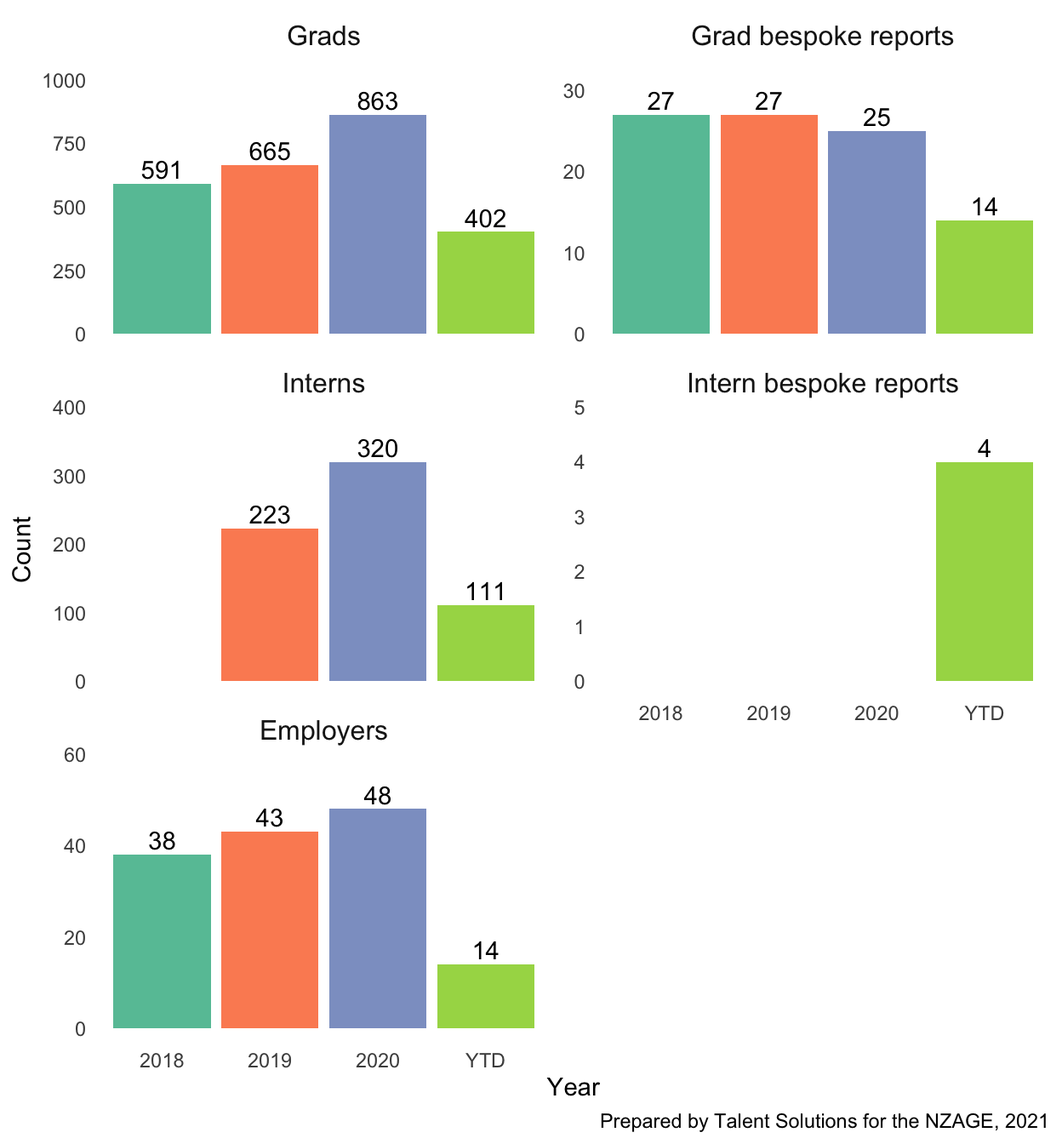
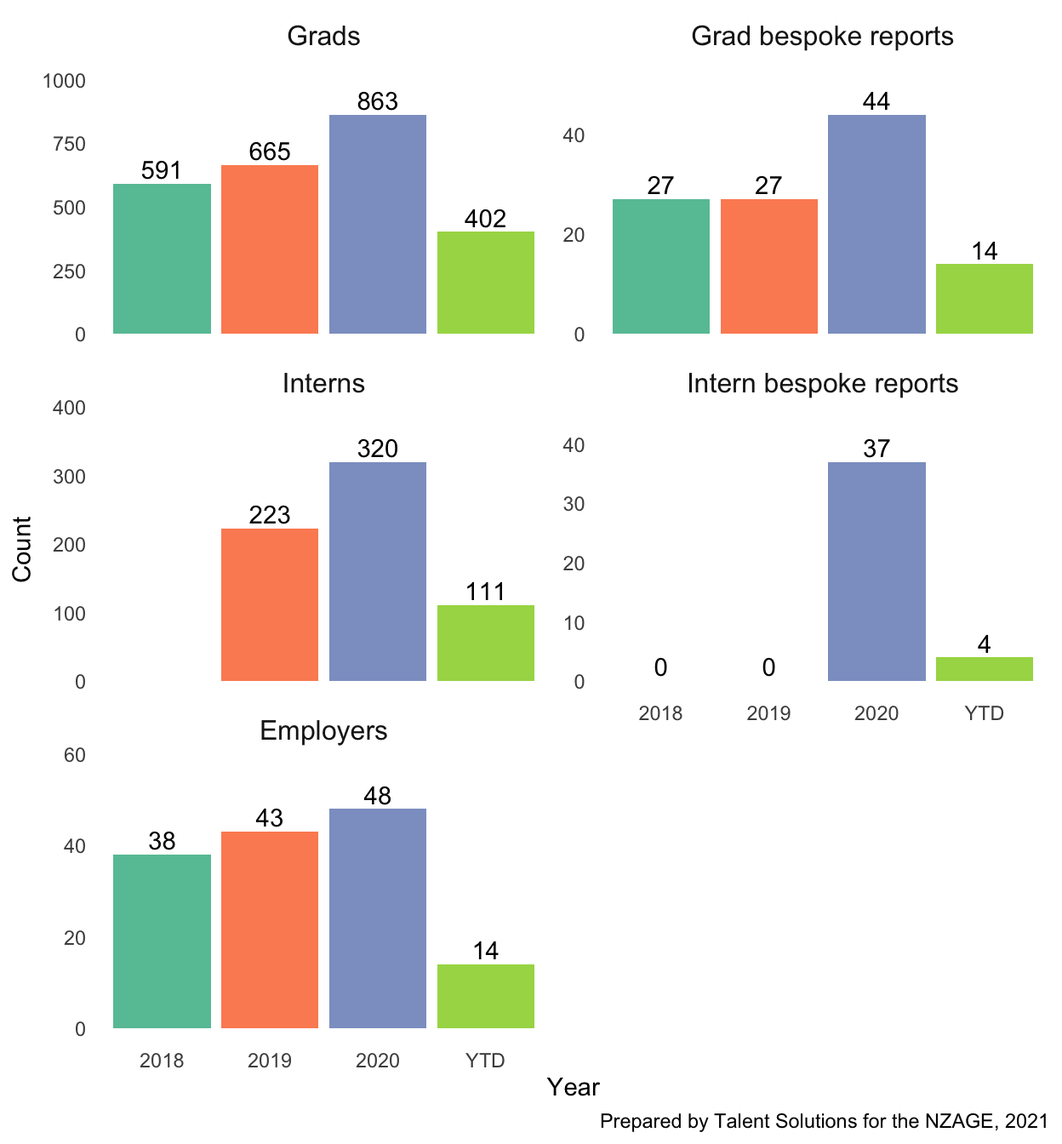
Autoupdate

diff --git a/docs/index.html b/docs/index.html
@@ -2456,7 +2456,7 @@ code span.wa { color: #5e5e5e; font-style: italic; } /* Warning */
 <div class="layout-chunk" data-layout="l-body">
 
 </div>
-<p><em>Last updated 2021-08-11 07:01.</em></p>
+<p><em>Last updated 2021-08-11 09:09.</em></p>
 <h2 id="progress-to-date">Progress to date</h2>
 <p>The below charts track <strong>complete</strong> graduate, intern and employer surveys, as well as how many bespoke reports have been earned. The surveys close on September 10.</p>
 <h4 id="note-on-bespoke-reports">Note on bespoke reports</h4>
@@ -2468,16 +2468,16 @@ code span.wa { color: #5e5e5e; font-style: italic; } /* Warning */
 <h3 id="cumulative-complete-responses-over-time-for-2021-surveys">Cumulative complete responses over time for 2021 surveys</h3>
 <p>The solid lines below represent the current cumulative responses to all three surveys. The dotted lines and final diamond points indicate the path to equalling last year’s final numbers by the set survey closing date.</p>
 <div class="layout-chunk" data-layout="l-body">
-<div id="htmlwidget-7b379263188b26e4e3ac" style="width:624px;height:480px;" class="plotly html-widget"></div>
-<script type="application/json" data-for="htmlwidget-7b379263188b26e4e3ac">{"x":{"data":[{"x":[18814,18815,18817,18820,18822,18823,18824,18828,18831,18844],"y":[1,3,4,6,7,9,10,11,13,14],"text":["Date: 2021-07-06<br />Cumulative count:   1","Date: 2021-07-07<br />Cumulative count:   3","Date: 2021-07-09<br />Cumulative count:   4","Date: 2021-07-12<br />Cumulative count:   6","Date: 2021-07-14<br />Cumulative count:   7","Date: 2021-07-15<br />Cumulative count:   9","Date: 2021-07-16<br />Cumulative count:  10","Date: 2021-07-20<br />Cumulative count:  11","Date: 2021-07-23<br />Cumulative count:  13","Date: 2021-08-05<br />Cumulative count:  14"],"type":"scatter","mode":"lines","line":{"width":5.66929133858268,"color":"rgba(85,13,128,1)","dash":"solid"},"hoveron":"points","name":"Employers","legendgroup":"Employers","showlegend":true,"xaxis":"x","yaxis":"y","hoverinfo":"text","frame":null},{"x":[18814,18815,18816,18817,18818,18819,18820,18821,18822,18823,18824,18826,18827,18828,18829,18830,18831,18833,18834,18835,18836,18837,18838,18840,18841,18842,18843,18844,18845,18847,18848,18849],"y":[38,97,117,130,131,147,169,177,182,200,201,213,220,223,235,241,247,252,255,256,295,307,309,338,370,378,385,386,395,398,401,402],"text":["Date: 2021-07-06<br />Cumulative count:  38","Date: 2021-07-07<br />Cumulative count:  97","Date: 2021-07-08<br />Cumulative count: 117","Date: 2021-07-09<br />Cumulative count: 130","Date: 2021-07-10<br />Cumulative count: 131","Date: 2021-07-11<br />Cumulative count: 147","Date: 2021-07-12<br />Cumulative count: 169","Date: 2021-07-13<br />Cumulative count: 177","Date: 2021-07-14<br />Cumulative count: 182","Date: 2021-07-15<br />Cumulative count: 200","Date: 2021-07-16<br />Cumulative count: 201","Date: 2021-07-18<br />Cumulative count: 213","Date: 2021-07-19<br />Cumulative count: 220","Date: 2021-07-20<br />Cumulative count: 223","Date: 2021-07-21<br />Cumulative count: 235","Date: 2021-07-22<br />Cumulative count: 241","Date: 2021-07-23<br />Cumulative count: 247","Date: 2021-07-25<br />Cumulative count: 252","Date: 2021-07-26<br />Cumulative count: 255","Date: 2021-07-27<br />Cumulative count: 256","Date: 2021-07-28<br />Cumulative count: 295","Date: 2021-07-29<br />Cumulative count: 307","Date: 2021-07-30<br />Cumulative count: 309","Date: 2021-08-01<br />Cumulative count: 338","Date: 2021-08-02<br />Cumulative count: 370","Date: 2021-08-03<br />Cumulative count: 378","Date: 2021-08-04<br />Cumulative count: 385","Date: 2021-08-05<br />Cumulative count: 386","Date: 2021-08-06<br />Cumulative count: 395","Date: 2021-08-08<br />Cumulative count: 398","Date: 2021-08-09<br />Cumulative count: 401","Date: 2021-08-10<br />Cumulative count: 402"],"type":"scatter","mode":"lines","line":{"width":5.66929133858268,"color":"rgba(237,168,47,1)","dash":"solid"},"hoveron":"points","name":"Grads","legendgroup":"Grads","showlegend":true,"xaxis":"x","yaxis":"y","hoverinfo":"text","frame":null},{"x":[18814,18815,18816,18817,18818,18819,18820,18821,18822,18823,18824,18825,18826,18827,18829,18830,18831,18837,18838,18840,18841,18842,18844,18845,18846,18847,18848,18849],"y":[9,30,37,39,41,46,55,58,60,64,66,68,70,73,76,81,82,84,87,89,96,98,99,103,104,107,110,111],"text":["Date: 2021-07-06<br />Cumulative count:   9","Date: 2021-07-07<br />Cumulative count:  30","Date: 2021-07-08<br />Cumulative count:  37","Date: 2021-07-09<br />Cumulative count:  39","Date: 2021-07-10<br />Cumulative count:  41","Date: 2021-07-11<br />Cumulative count:  46","Date: 2021-07-12<br />Cumulative count:  55","Date: 2021-07-13<br />Cumulative count:  58","Date: 2021-07-14<br />Cumulative count:  60","Date: 2021-07-15<br />Cumulative count:  64","Date: 2021-07-16<br />Cumulative count:  66","Date: 2021-07-17<br />Cumulative count:  68","Date: 2021-07-18<br />Cumulative count:  70","Date: 2021-07-19<br />Cumulative count:  73","Date: 2021-07-21<br />Cumulative count:  76","Date: 2021-07-22<br />Cumulative count:  81","Date: 2021-07-23<br />Cumulative count:  82","Date: 2021-07-29<br />Cumulative count:  84","Date: 2021-07-30<br />Cumulative count:  87","Date: 2021-08-01<br />Cumulative count:  89","Date: 2021-08-02<br />Cumulative count:  96","Date: 2021-08-03<br />Cumulative count:  98","Date: 2021-08-05<br />Cumulative count:  99","Date: 2021-08-06<br />Cumulative count: 103","Date: 2021-08-07<br />Cumulative count: 104","Date: 2021-08-08<br />Cumulative count: 107","Date: 2021-08-09<br />Cumulative count: 110","Date: 2021-08-10<br />Cumulative count: 111"],"type":"scatter","mode":"lines","line":{"width":5.66929133858268,"color":"rgba(41,158,115,1)","dash":"solid"},"hoveron":"points","name":"Interns","legendgroup":"Interns","showlegend":true,"xaxis":"x","yaxis":"y","hoverinfo":"text","frame":null},{"x":["2021-09-10","2021-09-10","2021-09-10","2021-09-10","2021-09-10","2021-09-10","2021-09-10","2021-09-10","2021-09-10","2021-09-10","2021-09-10","2021-09-10","2021-09-10","2021-09-10","2021-09-10","2021-09-10","2021-09-10","2021-09-10","2021-09-10","2021-09-10","2021-09-10","2021-09-10","2021-09-10","2021-09-10","2021-09-10","2021-09-10","2021-09-10","2021-09-10","2021-09-10","2021-09-10","2021-09-10","2021-09-10","2021-09-10","2021-09-10","2021-09-10","2021-09-10","2021-09-10","2021-09-10","2021-09-10","2021-09-10","2021-09-10","2021-09-10","2021-09-10","2021-09-10","2021-09-10","2021-09-10","2021-09-10","2021-09-10","2021-09-10","2021-09-10","2021-09-10","2021-09-10","2021-09-10","2021-09-10","2021-09-10","2021-09-10","2021-09-10","2021-09-10","2021-09-10","2021-09-10","2021-09-10","2021-09-10","2021-09-10","2021-09-10","2021-09-10","2021-09-10","2021-09-10","2021-09-10","2021-09-10","2021-09-10","2021-09-10","2021-09-10","2021-09-10","2021-09-10","2021-09-10","2021-09-10","2021-09-10","2021-09-10","2021-09-10","2021-09-10","2021-09-10","2021-09-10","2021-09-10","2021-09-10","2021-09-10","2021-09-10","2021-09-10","2021-09-10","2021-09-10","2021-09-10","2021-09-10","2021-09-10","2021-09-10","2021-09-10","2021-09-10","2021-09-10","2021-09-10","2021-09-10","2021-09-10","2021-09-10","2021-09-10","2021-09-10","2021-09-10","2021-09-10","2021-09-10","2021-09-10","2021-09-10","2021-09-10","2021-09-10","2021-09-10","2021-09-10","2021-09-10","2021-09-10","2021-09-10","2021-09-10","2021-09-10","2021-09-10","2021-09-10","2021-09-10","2021-09-10","2021-09-10","2021-09-10","2021-09-10","2021-09-10","2021-09-10","2021-09-10","2021-09-10","2021-09-10","2021-09-10","2021-09-10","2021-09-10","2021-09-10","2021-09-10","2021-09-10","2021-09-10","2021-09-10","2021-09-10","2021-09-10","2021-09-10","2021-09-10"],"y":[-42.1,-42.1,-42.1,-42.1,-42.1,-42.1,-42.1,-42.1,-42.1,-42.1,-42.1,-42.1,-42.1,-42.1,-42.1,-42.1,-42.1,-42.1,-42.1,-42.1,-42.1,-42.1,-42.1,-42.1,-42.1,-42.1,-42.1,-42.1,-42.1,-42.1,-42.1,-42.1,-42.1,-42.1,-42.1,-42.1,-42.1,-42.1,-42.1,-42.1,-42.1,-42.1,-42.1,-42.1,-42.1,-42.1,-42.1,-42.1,-42.1,-42.1,-42.1,-42.1,-42.1,-42.1,-42.1,-42.1,-42.1,-42.1,-42.1,-42.1,-42.1,-42.1,-42.1,-42.1,-42.1,-42.1,-42.1,-42.1,-42.1,-42.1,906.1,906.1,906.1,906.1,906.1,906.1,906.1,906.1,906.1,906.1,906.1,906.1,906.1,906.1,906.1,906.1,906.1,906.1,906.1,906.1,906.1,906.1,906.1,906.1,906.1,906.1,906.1,906.1,906.1,906.1,906.1,906.1,906.1,906.1,906.1,906.1,906.1,906.1,906.1,906.1,906.1,906.1,906.1,906.1,906.1,906.1,906.1,906.1,906.1,906.1,906.1,906.1,906.1,906.1,906.1,906.1,906.1,906.1,906.1,906.1,906.1,906.1,906.1,906.1,906.1,906.1,906.1,906.1,906.1,906.1],"text":"","type":"scatter","mode":"lines","line":{"width":1.88976377952756,"color":"rgba(0,0,0,1)","dash":"dash"},"hoveron":"points","showlegend":false,"xaxis":"x","yaxis":"y","hoverinfo":"text","frame":null},{"x":[18880],"y":[48],"text":"Date: 2021-09-10<br />Cumulative count:  48","type":"scatter","mode":"markers","marker":{"autocolorscale":false,"color":"rgba(85,13,128,1)","opacity":1,"size":5.66929133858268,"symbol":"diamond","line":{"width":1.88976377952756,"color":"rgba(85,13,128,1)"}},"hoveron":"points","name":"Employers","legendgroup":"Employers","showlegend":false,"xaxis":"x","yaxis":"y","hoverinfo":"text","frame":null},{"x":[18880],"y":[863],"text":"Date: 2021-09-10<br />Cumulative count: 863","type":"scatter","mode":"markers","marker":{"autocolorscale":false,"color":"rgba(237,168,47,1)","opacity":1,"size":5.66929133858268,"symbol":"diamond","line":{"width":1.88976377952756,"color":"rgba(237,168,47,1)"}},"hoveron":"points","name":"Grads","legendgroup":"Grads","showlegend":false,"xaxis":"x","yaxis":"y","hoverinfo":"text","frame":null},{"x":[18880],"y":[320],"text":"Date: 2021-09-10<br />Cumulative count: 320","type":"scatter","mode":"markers","marker":{"autocolorscale":false,"color":"rgba(41,158,115,1)","opacity":1,"size":5.66929133858268,"symbol":"diamond","line":{"width":1.88976377952756,"color":"rgba(41,158,115,1)"}},"hoveron":"points","name":"Interns","legendgroup":"Interns","showlegend":false,"xaxis":"x","yaxis":"y","hoverinfo":"text","frame":null},{"x":[18844,18880],"y":[14,48],"text":"Date: 2021-08-05<br />Cumulative count:  14<br />Date: 2021-08-05<br />Cumulative count:  14","type":"scatter","mode":"lines","line":{"width":1.88976377952756,"color":"rgba(85,13,128,1)","dash":"dot"},"hoveron":"points","name":"Employers","legendgroup":"Employers","showlegend":false,"xaxis":"x","yaxis":"y","hoverinfo":"text","frame":null},{"x":[18849,18880],"y":[402,863],"text":"Date: 2021-08-10<br />Cumulative count: 402<br />Date: 2021-08-10<br />Cumulative count: 402","type":"scatter","mode":"lines","line":{"width":1.88976377952756,"color":"rgba(237,168,47,1)","dash":"dot"},"hoveron":"points","name":"Grads","legendgroup":"Grads","showlegend":false,"xaxis":"x","yaxis":"y","hoverinfo":"text","frame":null},{"x":[18849,18880],"y":[111,320],"text":"Date: 2021-08-10<br />Cumulative count: 111<br />Date: 2021-08-10<br />Cumulative count: 111","type":"scatter","mode":"lines","line":{"width":1.88976377952756,"color":"rgba(41,158,115,1)","dash":"dot"},"hoveron":"points","name":"Interns","legendgroup":"Interns","showlegend":false,"xaxis":"x","yaxis":"y","hoverinfo":"text","frame":null}],"layout":{"margin":{"t":25.4977168949772,"r":7.30593607305936,"b":39.4520547945206,"l":43.1050228310502},"font":{"color":"rgba(0,0,0,1)","family":"","size":14.6118721461187},"xaxis":{"domain":[0,1],"automargin":true,"type":"linear","autorange":false,"range":[18810.7,18883.3],"tickmode":"array","ticktext":["Jul 15","Aug 01","Aug 15","Sep 01"],"tickvals":[18823,18840,18854,18871],"categoryorder":"array","categoryarray":["Jul 15","Aug 01","Aug 15","Sep 01"],"nticks":null,"ticks":"","tickcolor":null,"ticklen":3.65296803652968,"tickwidth":0,"showticklabels":true,"tickfont":{"color":"rgba(77,77,77,1)","family":"","size":11.689497716895},"tickangle":-0,"showline":false,"linecolor":null,"linewidth":0,"showgrid":true,"gridcolor":"rgba(235,235,235,1)","gridwidth":0.66417600664176,"zeroline":false,"anchor":"y","title":{"text":"Date","font":{"color":"rgba(0,0,0,1)","family":"","size":14.6118721461187}},"hoverformat":".2f"},"yaxis":{"domain":[0,1],"automargin":true,"type":"linear","autorange":false,"range":[-42.1,906.1],"tickmode":"array","ticktext":["0","250","500","750"],"tickvals":[0,250,500,750],"categoryorder":"array","categoryarray":["0","250","500","750"],"nticks":null,"ticks":"","tickcolor":null,"ticklen":3.65296803652968,"tickwidth":0,"showticklabels":true,"tickfont":{"color":"rgba(77,77,77,1)","family":"","size":11.689497716895},"tickangle":-0,"showline":false,"linecolor":null,"linewidth":0,"showgrid":true,"gridcolor":"rgba(235,235,235,1)","gridwidth":0.66417600664176,"zeroline":false,"anchor":"x","title":{"text":"Cumulative count","font":{"color":"rgba(0,0,0,1)","family":"","size":14.6118721461187}},"hoverformat":".2f"},"shapes":[{"type":"rect","fillcolor":null,"line":{"color":null,"width":0,"linetype":[]},"yref":"paper","xref":"paper","x0":0,"x1":1,"y0":0,"y1":1}],"showlegend":true,"legend":{"bgcolor":null,"bordercolor":null,"borderwidth":0,"font":{"color":"rgba(0,0,0,1)","family":"","size":11.689497716895},"y":0.913385826771654,"orientation":"h"},"hovermode":"closest","barmode":"relative"},"config":{"doubleClick":"reset","showSendToCloud":false},"source":"A","attrs":{"b72f3dac3012":{"x":{},"y":{},"colour":{},"type":"scatter"},"b72f73880d5f":{"x":{},"y":{},"colour":{}},"b72f6926133a":{"xintercept":{}},"b72f42b87ac4":{"x":{},"y":{},"x.1":{},"y.1":{},"colour":{}},"b72f5d83fc14":{"x":{},"y":{},"xend":{},"yend":{},"x.1":{},"y.1":{},"colour":{}}},"cur_data":"b72f3dac3012","visdat":{"b72f3dac3012":["function (y) ","x"],"b72f73880d5f":["function (y) ","x"],"b72f6926133a":["function (y) ","x"],"b72f42b87ac4":["function (y) ","x"],"b72f5d83fc14":["function (y) ","x"]},"highlight":{"on":"plotly_click","persistent":false,"dynamic":false,"selectize":false,"opacityDim":0.2,"selected":{"opacity":1},"debounce":0},"shinyEvents":["plotly_hover","plotly_click","plotly_selected","plotly_relayout","plotly_brushed","plotly_brushing","plotly_clickannotation","plotly_doubleclick","plotly_deselect","plotly_afterplot","plotly_sunburstclick"],"base_url":"https://plot.ly"},"evals":[],"jsHooks":[]}</script>
+<div id="htmlwidget-d3a55604a93266758895" style="width:624px;height:480px;" class="plotly html-widget"></div>
+<script type="application/json" data-for="htmlwidget-d3a55604a93266758895">{"x":{"data":[{"x":[18814,18815,18817,18820,18822,18823,18824,18828,18831,18844,18849],"y":[1,3,4,6,7,9,10,11,13,14,14],"text":["Date: 2021-07-06<br />Cumulative count:   1","Date: 2021-07-07<br />Cumulative count:   3","Date: 2021-07-09<br />Cumulative count:   4","Date: 2021-07-12<br />Cumulative count:   6","Date: 2021-07-14<br />Cumulative count:   7","Date: 2021-07-15<br />Cumulative count:   9","Date: 2021-07-16<br />Cumulative count:  10","Date: 2021-07-20<br />Cumulative count:  11","Date: 2021-07-23<br />Cumulative count:  13","Date: 2021-08-05<br />Cumulative count:  14","Date: 2021-08-10<br />Cumulative count:  14"],"type":"scatter","mode":"lines","line":{"width":5.66929133858268,"color":"rgba(85,13,128,1)","dash":"solid"},"hoveron":"points","name":"Employers","legendgroup":"Employers","showlegend":true,"xaxis":"x","yaxis":"y","hoverinfo":"text","frame":null},{"x":[18814,18815,18816,18817,18818,18819,18820,18821,18822,18823,18824,18826,18827,18828,18829,18830,18831,18833,18834,18835,18836,18837,18838,18840,18841,18842,18843,18844,18845,18847,18848,18849,18849],"y":[38,97,117,130,131,147,169,177,182,200,201,213,220,223,235,241,247,252,255,256,295,307,309,338,370,378,385,386,395,398,401,402,402],"text":["Date: 2021-07-06<br />Cumulative count:  38","Date: 2021-07-07<br />Cumulative count:  97","Date: 2021-07-08<br />Cumulative count: 117","Date: 2021-07-09<br />Cumulative count: 130","Date: 2021-07-10<br />Cumulative count: 131","Date: 2021-07-11<br />Cumulative count: 147","Date: 2021-07-12<br />Cumulative count: 169","Date: 2021-07-13<br />Cumulative count: 177","Date: 2021-07-14<br />Cumulative count: 182","Date: 2021-07-15<br />Cumulative count: 200","Date: 2021-07-16<br />Cumulative count: 201","Date: 2021-07-18<br />Cumulative count: 213","Date: 2021-07-19<br />Cumulative count: 220","Date: 2021-07-20<br />Cumulative count: 223","Date: 2021-07-21<br />Cumulative count: 235","Date: 2021-07-22<br />Cumulative count: 241","Date: 2021-07-23<br />Cumulative count: 247","Date: 2021-07-25<br />Cumulative count: 252","Date: 2021-07-26<br />Cumulative count: 255","Date: 2021-07-27<br />Cumulative count: 256","Date: 2021-07-28<br />Cumulative count: 295","Date: 2021-07-29<br />Cumulative count: 307","Date: 2021-07-30<br />Cumulative count: 309","Date: 2021-08-01<br />Cumulative count: 338","Date: 2021-08-02<br />Cumulative count: 370","Date: 2021-08-03<br />Cumulative count: 378","Date: 2021-08-04<br />Cumulative count: 385","Date: 2021-08-05<br />Cumulative count: 386","Date: 2021-08-06<br />Cumulative count: 395","Date: 2021-08-08<br />Cumulative count: 398","Date: 2021-08-09<br />Cumulative count: 401","Date: 2021-08-10<br />Cumulative count: 402","Date: 2021-08-10<br />Cumulative count: 402"],"type":"scatter","mode":"lines","line":{"width":5.66929133858268,"color":"rgba(237,168,47,1)","dash":"solid"},"hoveron":"points","name":"Grads","legendgroup":"Grads","showlegend":true,"xaxis":"x","yaxis":"y","hoverinfo":"text","frame":null},{"x":[18814,18815,18816,18817,18818,18819,18820,18821,18822,18823,18824,18825,18826,18827,18829,18830,18831,18837,18838,18840,18841,18842,18844,18845,18846,18847,18848,18849,18849],"y":[9,30,37,39,41,46,55,58,60,64,66,68,70,73,76,81,82,84,87,89,96,98,99,103,104,107,110,111,111],"text":["Date: 2021-07-06<br />Cumulative count:   9","Date: 2021-07-07<br />Cumulative count:  30","Date: 2021-07-08<br />Cumulative count:  37","Date: 2021-07-09<br />Cumulative count:  39","Date: 2021-07-10<br />Cumulative count:  41","Date: 2021-07-11<br />Cumulative count:  46","Date: 2021-07-12<br />Cumulative count:  55","Date: 2021-07-13<br />Cumulative count:  58","Date: 2021-07-14<br />Cumulative count:  60","Date: 2021-07-15<br />Cumulative count:  64","Date: 2021-07-16<br />Cumulative count:  66","Date: 2021-07-17<br />Cumulative count:  68","Date: 2021-07-18<br />Cumulative count:  70","Date: 2021-07-19<br />Cumulative count:  73","Date: 2021-07-21<br />Cumulative count:  76","Date: 2021-07-22<br />Cumulative count:  81","Date: 2021-07-23<br />Cumulative count:  82","Date: 2021-07-29<br />Cumulative count:  84","Date: 2021-07-30<br />Cumulative count:  87","Date: 2021-08-01<br />Cumulative count:  89","Date: 2021-08-02<br />Cumulative count:  96","Date: 2021-08-03<br />Cumulative count:  98","Date: 2021-08-05<br />Cumulative count:  99","Date: 2021-08-06<br />Cumulative count: 103","Date: 2021-08-07<br />Cumulative count: 104","Date: 2021-08-08<br />Cumulative count: 107","Date: 2021-08-09<br />Cumulative count: 110","Date: 2021-08-10<br />Cumulative count: 111","Date: 2021-08-10<br />Cumulative count: 111"],"type":"scatter","mode":"lines","line":{"width":5.66929133858268,"color":"rgba(41,158,115,1)","dash":"solid"},"hoveron":"points","name":"Interns","legendgroup":"Interns","showlegend":true,"xaxis":"x","yaxis":"y","hoverinfo":"text","frame":null},{"x":["2021-09-10","2021-09-10","2021-09-10","2021-09-10","2021-09-10","2021-09-10","2021-09-10","2021-09-10","2021-09-10","2021-09-10","2021-09-10","2021-09-10","2021-09-10","2021-09-10","2021-09-10","2021-09-10","2021-09-10","2021-09-10","2021-09-10","2021-09-10","2021-09-10","2021-09-10","2021-09-10","2021-09-10","2021-09-10","2021-09-10","2021-09-10","2021-09-10","2021-09-10","2021-09-10","2021-09-10","2021-09-10","2021-09-10","2021-09-10","2021-09-10","2021-09-10","2021-09-10","2021-09-10","2021-09-10","2021-09-10","2021-09-10","2021-09-10","2021-09-10","2021-09-10","2021-09-10","2021-09-10","2021-09-10","2021-09-10","2021-09-10","2021-09-10","2021-09-10","2021-09-10","2021-09-10","2021-09-10","2021-09-10","2021-09-10","2021-09-10","2021-09-10","2021-09-10","2021-09-10","2021-09-10","2021-09-10","2021-09-10","2021-09-10","2021-09-10","2021-09-10","2021-09-10","2021-09-10","2021-09-10","2021-09-10","2021-09-10","2021-09-10","2021-09-10","2021-09-10","2021-09-10","2021-09-10","2021-09-10","2021-09-10","2021-09-10","2021-09-10","2021-09-10","2021-09-10","2021-09-10","2021-09-10","2021-09-10","2021-09-10","2021-09-10","2021-09-10","2021-09-10","2021-09-10","2021-09-10","2021-09-10","2021-09-10","2021-09-10","2021-09-10","2021-09-10","2021-09-10","2021-09-10","2021-09-10","2021-09-10","2021-09-10","2021-09-10","2021-09-10","2021-09-10","2021-09-10","2021-09-10","2021-09-10","2021-09-10","2021-09-10","2021-09-10","2021-09-10","2021-09-10","2021-09-10","2021-09-10","2021-09-10","2021-09-10","2021-09-10","2021-09-10","2021-09-10","2021-09-10","2021-09-10","2021-09-10","2021-09-10","2021-09-10","2021-09-10","2021-09-10","2021-09-10","2021-09-10","2021-09-10","2021-09-10","2021-09-10","2021-09-10","2021-09-10","2021-09-10","2021-09-10","2021-09-10","2021-09-10","2021-09-10","2021-09-10","2021-09-10","2021-09-10","2021-09-10","2021-09-10","2021-09-10","2021-09-10","2021-09-10"],"y":[-42.1,-42.1,-42.1,-42.1,-42.1,-42.1,-42.1,-42.1,-42.1,-42.1,-42.1,-42.1,-42.1,-42.1,-42.1,-42.1,-42.1,-42.1,-42.1,-42.1,-42.1,-42.1,-42.1,-42.1,-42.1,-42.1,-42.1,-42.1,-42.1,-42.1,-42.1,-42.1,-42.1,-42.1,-42.1,-42.1,-42.1,-42.1,-42.1,-42.1,-42.1,-42.1,-42.1,-42.1,-42.1,-42.1,-42.1,-42.1,-42.1,-42.1,-42.1,-42.1,-42.1,-42.1,-42.1,-42.1,-42.1,-42.1,-42.1,-42.1,-42.1,-42.1,-42.1,-42.1,-42.1,-42.1,-42.1,-42.1,-42.1,-42.1,-42.1,-42.1,-42.1,906.1,906.1,906.1,906.1,906.1,906.1,906.1,906.1,906.1,906.1,906.1,906.1,906.1,906.1,906.1,906.1,906.1,906.1,906.1,906.1,906.1,906.1,906.1,906.1,906.1,906.1,906.1,906.1,906.1,906.1,906.1,906.1,906.1,906.1,906.1,906.1,906.1,906.1,906.1,906.1,906.1,906.1,906.1,906.1,906.1,906.1,906.1,906.1,906.1,906.1,906.1,906.1,906.1,906.1,906.1,906.1,906.1,906.1,906.1,906.1,906.1,906.1,906.1,906.1,906.1,906.1,906.1,906.1,906.1,906.1,906.1,906.1,906.1],"text":"","type":"scatter","mode":"lines","line":{"width":1.88976377952756,"color":"rgba(0,0,0,1)","dash":"dash"},"hoveron":"points","showlegend":false,"xaxis":"x","yaxis":"y","hoverinfo":"text","frame":null},{"x":[18880],"y":[48],"text":"Date: 2021-09-10<br />Cumulative count:  48","type":"scatter","mode":"markers","marker":{"autocolorscale":false,"color":"rgba(85,13,128,1)","opacity":1,"size":5.66929133858268,"symbol":"diamond","line":{"width":1.88976377952756,"color":"rgba(85,13,128,1)"}},"hoveron":"points","name":"Employers","legendgroup":"Employers","showlegend":false,"xaxis":"x","yaxis":"y","hoverinfo":"text","frame":null},{"x":[18880],"y":[863],"text":"Date: 2021-09-10<br />Cumulative count: 863","type":"scatter","mode":"markers","marker":{"autocolorscale":false,"color":"rgba(237,168,47,1)","opacity":1,"size":5.66929133858268,"symbol":"diamond","line":{"width":1.88976377952756,"color":"rgba(237,168,47,1)"}},"hoveron":"points","name":"Grads","legendgroup":"Grads","showlegend":false,"xaxis":"x","yaxis":"y","hoverinfo":"text","frame":null},{"x":[18880],"y":[320],"text":"Date: 2021-09-10<br />Cumulative count: 320","type":"scatter","mode":"markers","marker":{"autocolorscale":false,"color":"rgba(41,158,115,1)","opacity":1,"size":5.66929133858268,"symbol":"diamond","line":{"width":1.88976377952756,"color":"rgba(41,158,115,1)"}},"hoveron":"points","name":"Interns","legendgroup":"Interns","showlegend":false,"xaxis":"x","yaxis":"y","hoverinfo":"text","frame":null},{"x":[18849,18880],"y":[14,48],"text":"Date: 2021-08-10<br />Cumulative count:  14<br />Date: 2021-08-10<br />Cumulative count:  14","type":"scatter","mode":"lines","line":{"width":1.88976377952756,"color":"rgba(85,13,128,1)","dash":"dot"},"hoveron":"points","name":"Employers","legendgroup":"Employers","showlegend":false,"xaxis":"x","yaxis":"y","hoverinfo":"text","frame":null},{"x":[18849,18880,null,18849,18880],"y":[402,863,null,402,863],"text":"Date: 2021-08-10<br />Cumulative count: 402<br />Date: 2021-08-10<br />Cumulative count: 402","type":"scatter","mode":"lines","line":{"width":1.88976377952756,"color":"rgba(237,168,47,1)","dash":"dot"},"hoveron":"points","name":"Grads","legendgroup":"Grads","showlegend":false,"xaxis":"x","yaxis":"y","hoverinfo":"text","frame":null},{"x":[18849,18880,null,18849,18880],"y":[111,320,null,111,320],"text":"Date: 2021-08-10<br />Cumulative count: 111<br />Date: 2021-08-10<br />Cumulative count: 111","type":"scatter","mode":"lines","line":{"width":1.88976377952756,"color":"rgba(41,158,115,1)","dash":"dot"},"hoveron":"points","name":"Interns","legendgroup":"Interns","showlegend":false,"xaxis":"x","yaxis":"y","hoverinfo":"text","frame":null}],"layout":{"margin":{"t":25.4977168949772,"r":7.30593607305936,"b":39.4520547945206,"l":43.1050228310502},"font":{"color":"rgba(0,0,0,1)","family":"","size":14.6118721461187},"xaxis":{"domain":[0,1],"automargin":true,"type":"linear","autorange":false,"range":[18810.7,18883.3],"tickmode":"array","ticktext":["Jul 15","Aug 01","Aug 15","Sep 01"],"tickvals":[18823,18840,18854,18871],"categoryorder":"array","categoryarray":["Jul 15","Aug 01","Aug 15","Sep 01"],"nticks":null,"ticks":"","tickcolor":null,"ticklen":3.65296803652968,"tickwidth":0,"showticklabels":true,"tickfont":{"color":"rgba(77,77,77,1)","family":"","size":11.689497716895},"tickangle":-0,"showline":false,"linecolor":null,"linewidth":0,"showgrid":true,"gridcolor":"rgba(235,235,235,1)","gridwidth":0.66417600664176,"zeroline":false,"anchor":"y","title":{"text":"Date","font":{"color":"rgba(0,0,0,1)","family":"","size":14.6118721461187}},"hoverformat":".2f"},"yaxis":{"domain":[0,1],"automargin":true,"type":"linear","autorange":false,"range":[-42.1,906.1],"tickmode":"array","ticktext":["0","250","500","750"],"tickvals":[0,250,500,750],"categoryorder":"array","categoryarray":["0","250","500","750"],"nticks":null,"ticks":"","tickcolor":null,"ticklen":3.65296803652968,"tickwidth":0,"showticklabels":true,"tickfont":{"color":"rgba(77,77,77,1)","family":"","size":11.689497716895},"tickangle":-0,"showline":false,"linecolor":null,"linewidth":0,"showgrid":true,"gridcolor":"rgba(235,235,235,1)","gridwidth":0.66417600664176,"zeroline":false,"anchor":"x","title":{"text":"Cumulative count","font":{"color":"rgba(0,0,0,1)","family":"","size":14.6118721461187}},"hoverformat":".2f"},"shapes":[{"type":"rect","fillcolor":null,"line":{"color":null,"width":0,"linetype":[]},"yref":"paper","xref":"paper","x0":0,"x1":1,"y0":0,"y1":1}],"showlegend":true,"legend":{"bgcolor":null,"bordercolor":null,"borderwidth":0,"font":{"color":"rgba(0,0,0,1)","family":"","size":11.689497716895},"y":0.913385826771654,"orientation":"h"},"hovermode":"closest","barmode":"relative"},"config":{"doubleClick":"reset","showSendToCloud":false},"source":"A","attrs":{"1dd1116e9afc":{"x":{},"y":{},"colour":{},"type":"scatter"},"1dd174811f54":{"x":{},"y":{},"colour":{}},"1dd1492fff8d":{"xintercept":{}},"1dd16e32a784":{"x":{},"y":{},"x.1":{},"y.1":{},"colour":{}},"1dd13f9403a1":{"x":{},"y":{},"xend":{},"yend":{},"x.1":{},"y.1":{},"colour":{}}},"cur_data":"1dd1116e9afc","visdat":{"1dd1116e9afc":["function (y) ","x"],"1dd174811f54":["function (y) ","x"],"1dd1492fff8d":["function (y) ","x"],"1dd16e32a784":["function (y) ","x"],"1dd13f9403a1":["function (y) ","x"]},"highlight":{"on":"plotly_click","persistent":false,"dynamic":false,"selectize":false,"opacityDim":0.2,"selected":{"opacity":1},"debounce":0},"shinyEvents":["plotly_hover","plotly_click","plotly_selected","plotly_relayout","plotly_brushed","plotly_brushing","plotly_clickannotation","plotly_doubleclick","plotly_deselect","plotly_afterplot","plotly_sunburstclick"],"base_url":"https://plot.ly"},"evals":[],"jsHooks":[]}</script>
 </div>
 <h2 id="summary-by-organisation">Summary by organisation</h2>
 <div class="layout-chunk" data-layout="l-body">
 
 </div>
 <p>This sortable and searchable table shows all organisations that have had graduate, intern and/or employer responses in 2021. Only complete counts<a href="#fn1" class="footnote-ref" id="fnref1" role="doc-noteref"><sup>1</sup></a> are included.</p>
-<div id="htmlwidget-05880cd3beeb0bbaffdc" style="width:100%;height:auto;" class="datatables html-widget"></div>
-<script type="application/json" data-for="htmlwidget-05880cd3beeb0bbaffdc">{"x":{"filter":"none","data":[["2degrees","ANZ","ASB","Auckland Council","Audit New Zealand","Aurecon","BDO","Baker Tilly Staples Rodway","Beca","Chapman Tripp","DLA Piper","Deloitte","EY","Intergen","KPMG","MBIE","Ministry of Housing and Urban Development","PowerCo","Russell McVeagh","Simpson Grierson","The University of Auckland","Tonkin + Taylor","Toyota","Transpower New Zealand","WSP","Xero"],["Yes","Yes","No","No","No","No","Yes","Yes","No","Yes","No","Yes","No","Yes","No","Yes","No","Yes","No","No","Yes","Yes","Yes","Yes","Yes","No"],[5,16,22,7,11,9,23,4,42,9,0,47,21,12,46,12,3,4,11,16,4,7,6,6,34,25],["No","Yes","Yes","No","Yes","No","Yes","No","Yes","No","No","Yes","Yes","Yes","Yes","Yes","No","No","Yes","Yes","No","No","No","No","Yes","Yes"],[0,6,0,0,5,1,4,3,0,13,3,22,6,0,11,3,0,6,6,2,0,0,1,2,6,11],["No","No","No","No","No","No","No","No","No","Yes","No","Yes","No","No","Yes","No","No","No","No","No","No","No","No","No","No","Yes"]],"container":"<table class=\"display\">\n  <thead>\n    <tr>\n      <th>Employer<\/th>\n      <th>Complete Employer Survey?<\/th>\n      <th>Grads<\/th>\n      <th>Grad bespoke report?<\/th>\n      <th>Interns<\/th>\n      <th>Intern bespoke report?<\/th>\n    <\/tr>\n  <\/thead>\n<\/table>","options":{"columnDefs":[{"className":"dt-right","targets":[2,4]}],"order":[],"autoWidth":false,"orderClasses":false}},"evals":[],"jsHooks":[]}</script>
+<div id="htmlwidget-5f02768be3a184efd1c3" style="width:100%;height:auto;" class="datatables html-widget"></div>
+<script type="application/json" data-for="htmlwidget-5f02768be3a184efd1c3">{"x":{"filter":"none","data":[["2degrees","ANZ","ASB","Auckland Council","Audit New Zealand","Aurecon","Baker Tilly Staples Rodway","BDO","Beca","Chapman Tripp","Deloitte","DLA Piper","EY","Intergen","KPMG","MBIE","Ministry of Housing and Urban Development","PowerCo","Russell McVeagh","Simpson Grierson","The University of Auckland","Tonkin + Taylor","Toyota","Transpower New Zealand","WSP","Xero"],["Yes","Yes","No","No","No","No","Yes","Yes","No","Yes","Yes","No","No","Yes","No","Yes","No","Yes","No","No","Yes","Yes","Yes","Yes","Yes","No"],[5,16,22,7,11,9,4,23,42,9,47,0,21,12,46,12,3,4,11,16,4,7,6,6,34,25],["No","Yes","Yes","No","Yes","No","No","Yes","Yes","No","Yes","No","Yes","Yes","Yes","Yes","No","No","Yes","Yes","No","No","No","No","Yes","Yes"],[0,6,0,0,5,1,3,4,0,13,22,3,6,0,11,3,0,6,6,2,0,0,1,2,6,11],["No","No","No","No","No","No","No","No","No","Yes","Yes","No","No","No","Yes","No","No","No","No","No","No","No","No","No","No","Yes"]],"container":"<table class=\"display\">\n  <thead>\n    <tr>\n      <th>Employer<\/th>\n      <th>Complete Employer Survey?<\/th>\n      <th>Grads<\/th>\n      <th>Grad bespoke report?<\/th>\n      <th>Interns<\/th>\n      <th>Intern bespoke report?<\/th>\n    <\/tr>\n  <\/thead>\n<\/table>","options":{"columnDefs":[{"className":"dt-right","targets":[2,4]}],"order":[],"autoWidth":false,"orderClasses":false}},"evals":[],"jsHooks":[]}</script>
 <div class="sourceCode" id="cb1"><pre class="sourceCode r distill-force-highlighting-css"><code class="sourceCode r"></code></pre></div>
 <section class="footnotes" role="doc-endnotes">
 <hr />
